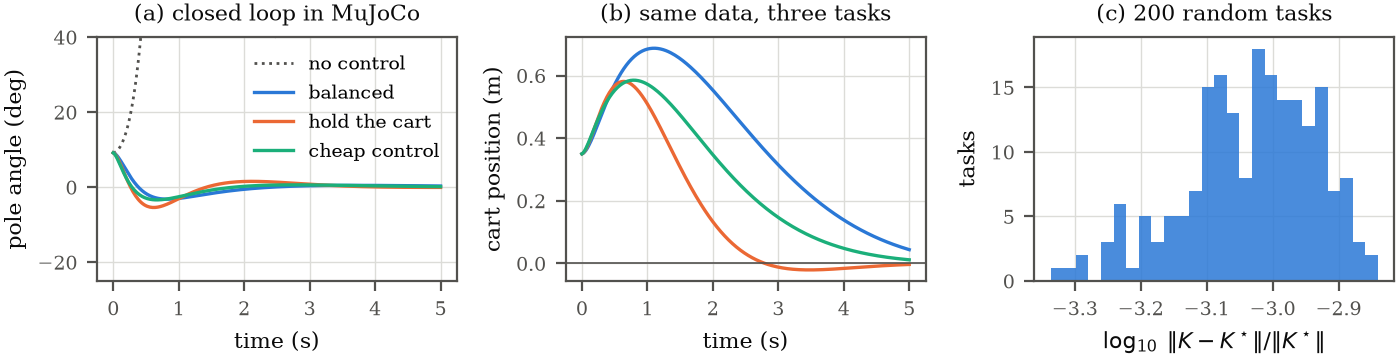
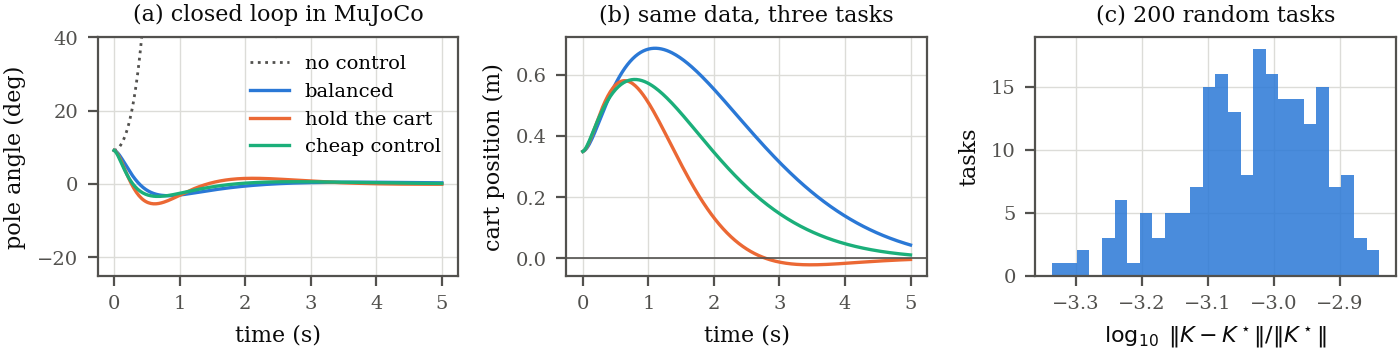
Add cart-pole swing-up demo to the MuJoCo section

diff --git a/index.html b/index.html
@@ -193,6 +193,18 @@
         <figcaption><span class="fnum">Fig. 3</span>(a) the closed loop in the nonlinear simulator, next to the uncontrolled fall. (b) the three tasks separate in how hard they pull the cart back to the centre. (c) over 200 random tasks read out of the same representation, the zero-shot gain stays within $1.4\times10^{-3}$ relative error of the Riccati gain of MuJoCo's own finite-difference linearisation, which the algorithm never sees.</figcaption>
       </figure>
 
+      <figure class="fig" style="margin-top:26px">
+        <img src="./images/mujoco_swingup.gif"
+          alt="MuJoCo cart-pole starting hanging downward, pumping energy to swing up, then caught and balanced by the zero-shot LQR gain">
+        <figcaption><span class="fnum">Demo</span>Swing-up from the hanging position. An energy-pumping law drives the pole towards upright, and once it enters the basin of the linearisation the controller hands over to the zero-shot gain of Task&nbsp;1, read out of the same reward-free representation. The linear gain is only responsible for the catch; it takes over at 3.8&nbsp;s and holds the pole upright afterwards.</figcaption>
+      </figure>
+
+      <figure class="fig" style="margin-top:26px">
+        <img src="./images/mujoco_swingup.png"
+          alt="Pole angle and cart position during swing-up, with a dashed line where the zero-shot LQR takes over">
+        <figcaption><span class="fnum">Swing-up</span>Pole angle (unwrapped) and cart position during the swing-up. The dashed line marks the hand-over to the zero-shot LQR.</figcaption>
+      </figure>
+
       <h3 style="margin-top:38px">Quadrotor at Hover</h3>
       <p class="lead">
         Hover is a harder case, and not only because the state is 12-dimensional with four inputs. The
